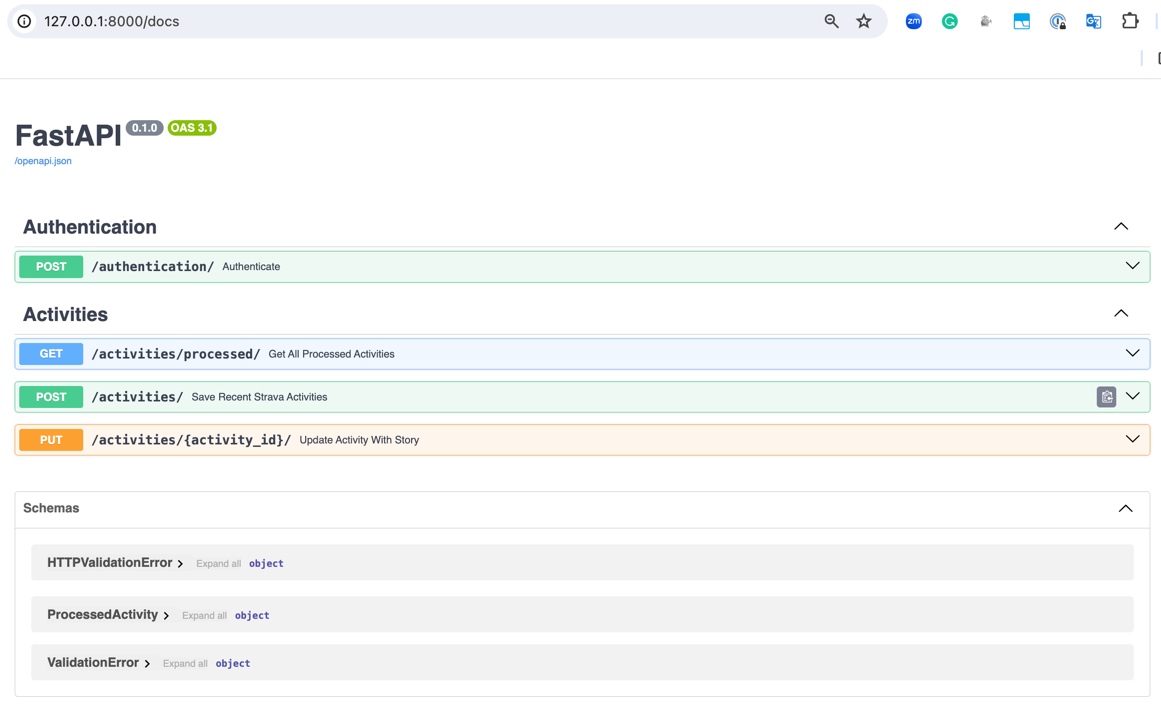
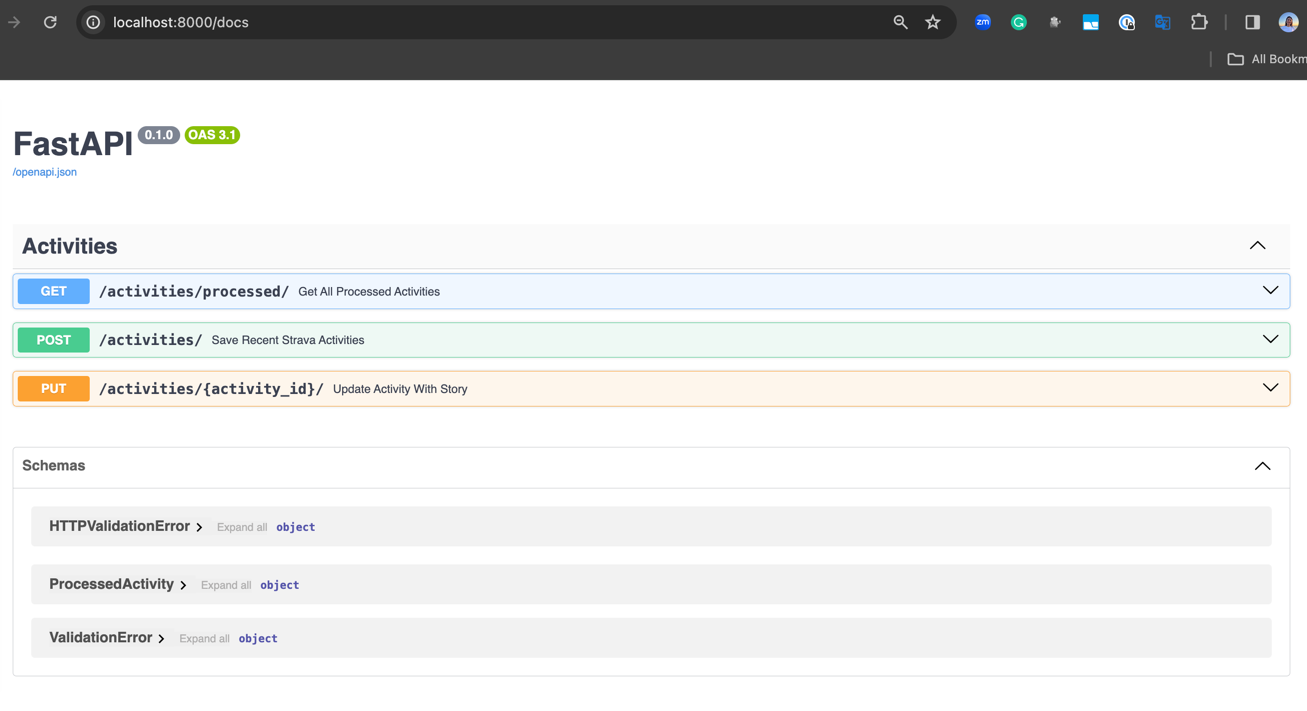
remove authentication namespace

diff --git a/app/main.py b/app/main.py
@@ -1,4 +1,4 @@
-from app.routers import authentication, activities
+from app.routers import activities
 
 
 from fastapi import FastAPI
@@ -6,7 +6,4 @@ from fastapi import FastAPI
 
 app = FastAPI()
 
-app.include_router(
-    authentication.router, prefix="/authentication", tags=["Authentication"]
-)
 app.include_router(activities.router, prefix="/activities", tags=["Activities"])

diff --git a/README.md b/README.md
@@ -117,7 +117,7 @@ development cycle and decreases the potential of bugs.
     ├── src                               <- Core components
     │   ├── gateway.py                    <- MongoDB Gateway impleementation
     │   ├── strava_client.py              <- StravaClient implementation
-    │   ├── generators.py                 <- LLM inference implemntation
+    │   ├── generators.py                 <- LLM inference implementation
     ├── app                               <- fastAPI app 
     │   ├── routers                       <- namesapces
     │   │   ├── activities.py             <- GET, PUT, POST endpoint implemetations
